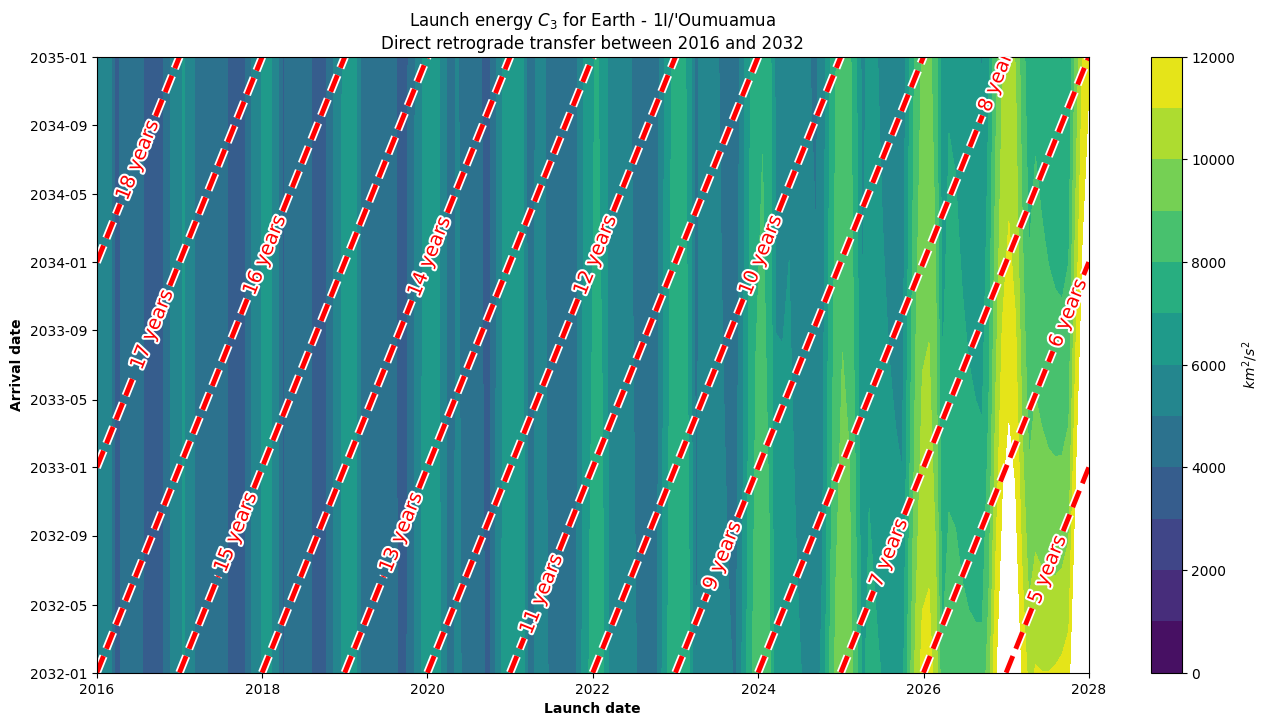
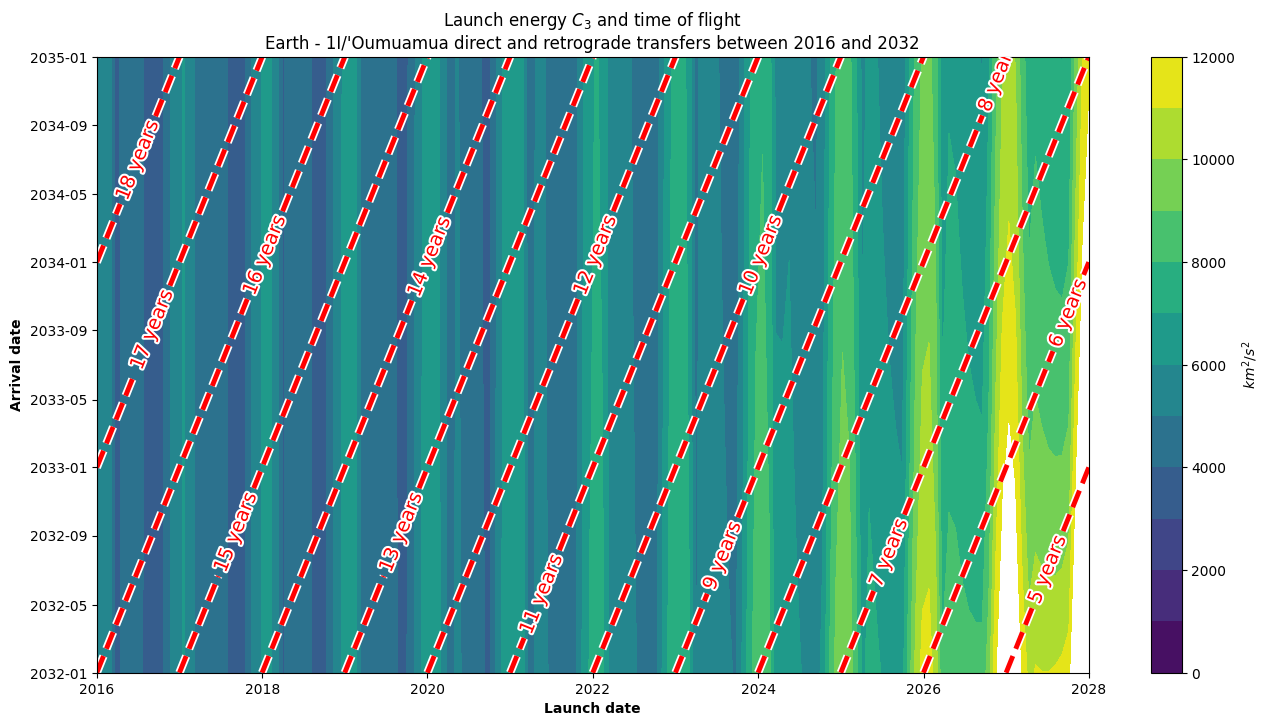
feat: high reoslution porkchop with new titles

Changed region(s): [[0.2764, 0.0, 0.7063, 0.0909], [0.215, 0.0303, 0.2457, 0.0606]]

diff --git a/bin/borisov_porkchop.py b/bin/borisov_porkchop.py
@@ -37,9 +37,8 @@ def solve_launch_energy():
             levels=np.linspace(0, 20, 21) * u.year,
             ax=ax
         )
-        porkchop.ax.set_title(f"Launch energy $C_3$ for Earth - 2I/Borisov\nDirect {inclination} transfer between 2016 and 2032")
+        porkchop.ax.set_title(f"Launch energy $C_3$ and time of flight\nEarth - 2I/Borisov direct and {inclination} transfers between 2016 and 2032")
         plt.savefig(f"fig/static/borisov/direct-{inclination}-transfer-porkchop.png", bbox_inches="tight")
-        porkchop.show()
 
 def solve_launch_velocity():
     for prograde in [True, False]:
@@ -59,7 +58,7 @@ def solve_launch_velocity():
             levels=np.linspace(0, 15, 6) * u.km / u.s,
             ax=ax
         )
-        porkchop.ax.set_title(f"Launch energy $C_3$ for Earth - 2I/Borisov\nDirect {inclination} transfer between 2016 and 2032")
+        porkchop.ax.set_title(f"Launch energy $C_3$ and arrival velocity\nEarth - 2I/Borisov direct and {inclination} transfers between 2016 and 2032")
         plt.savefig(f"fig/static/borisov/direct-{inclination}-transfer-porkchop-avl.png", bbox_inches="tight")
 
 if __name__ == "__main__":

diff --git a/bin/oumuamua_porkchop.py b/bin/oumuamua_porkchop.py
@@ -42,9 +42,8 @@ def solve_launch_energy():
             levels=np.linspace(0, 20, 21) * u.year,
             ax=ax
         )
-        porkchop.ax.set_title(f"Launch energy $C_3$ for Earth - 1I/'Oumuamua\nDirect {inclination} transfer between 2016 and 2032")
+        porkchop.ax.set_title(f"Launch energy $C_3$ and time of flight\nEarth - 1I/'Oumuamua direct and {inclination} transfers between 2016 and 2032")
         plt.savefig(f"fig/static/oumuamua/direct-{inclination}-transfer-porkchop.png", bbox_inches="tight")
-        #plt.show()
 
 def solve_arrival_velocity():
     for prograde in [True, False]:
@@ -68,7 +67,7 @@ def solve_arrival_velocity():
             levels=np.linspace(0, 2, 3) * u.km / u.s,
             ax=ax
         )
-        porkchop.ax.set_title(f"Launch energy $C_3$ for Earth - 1I/'Oumuamua\nDirect {inclination} transfer between 2016 and 2032")
+        porkchop.ax.set_title(f"Launch energy $C_3$ and arrival velocity\nEarth - 1I/'Oumuamua direct and {inclination} transfers between 2016 and 2032")
         plt.savefig(f"fig/static/oumuamua/direct-{inclination}-transfer-porkchop-avl.png", bbox_inches="tight")
 
 
